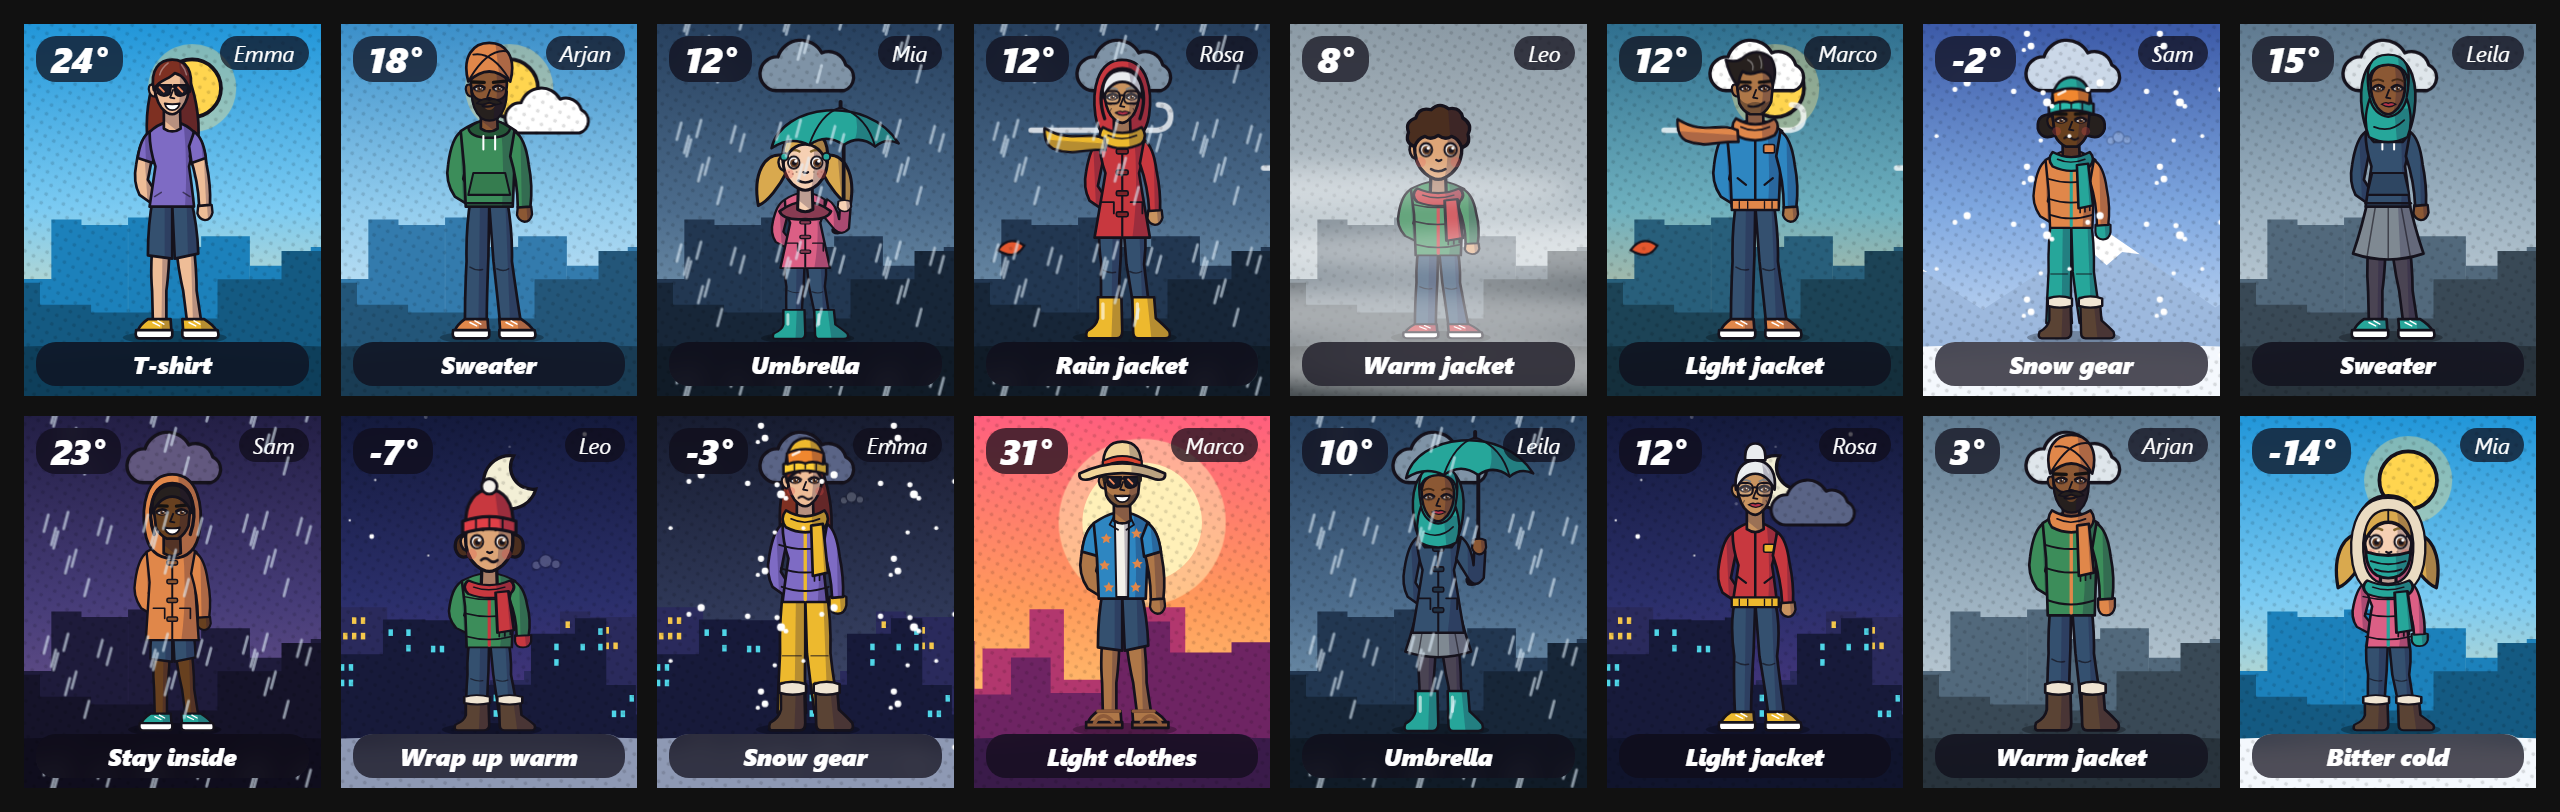
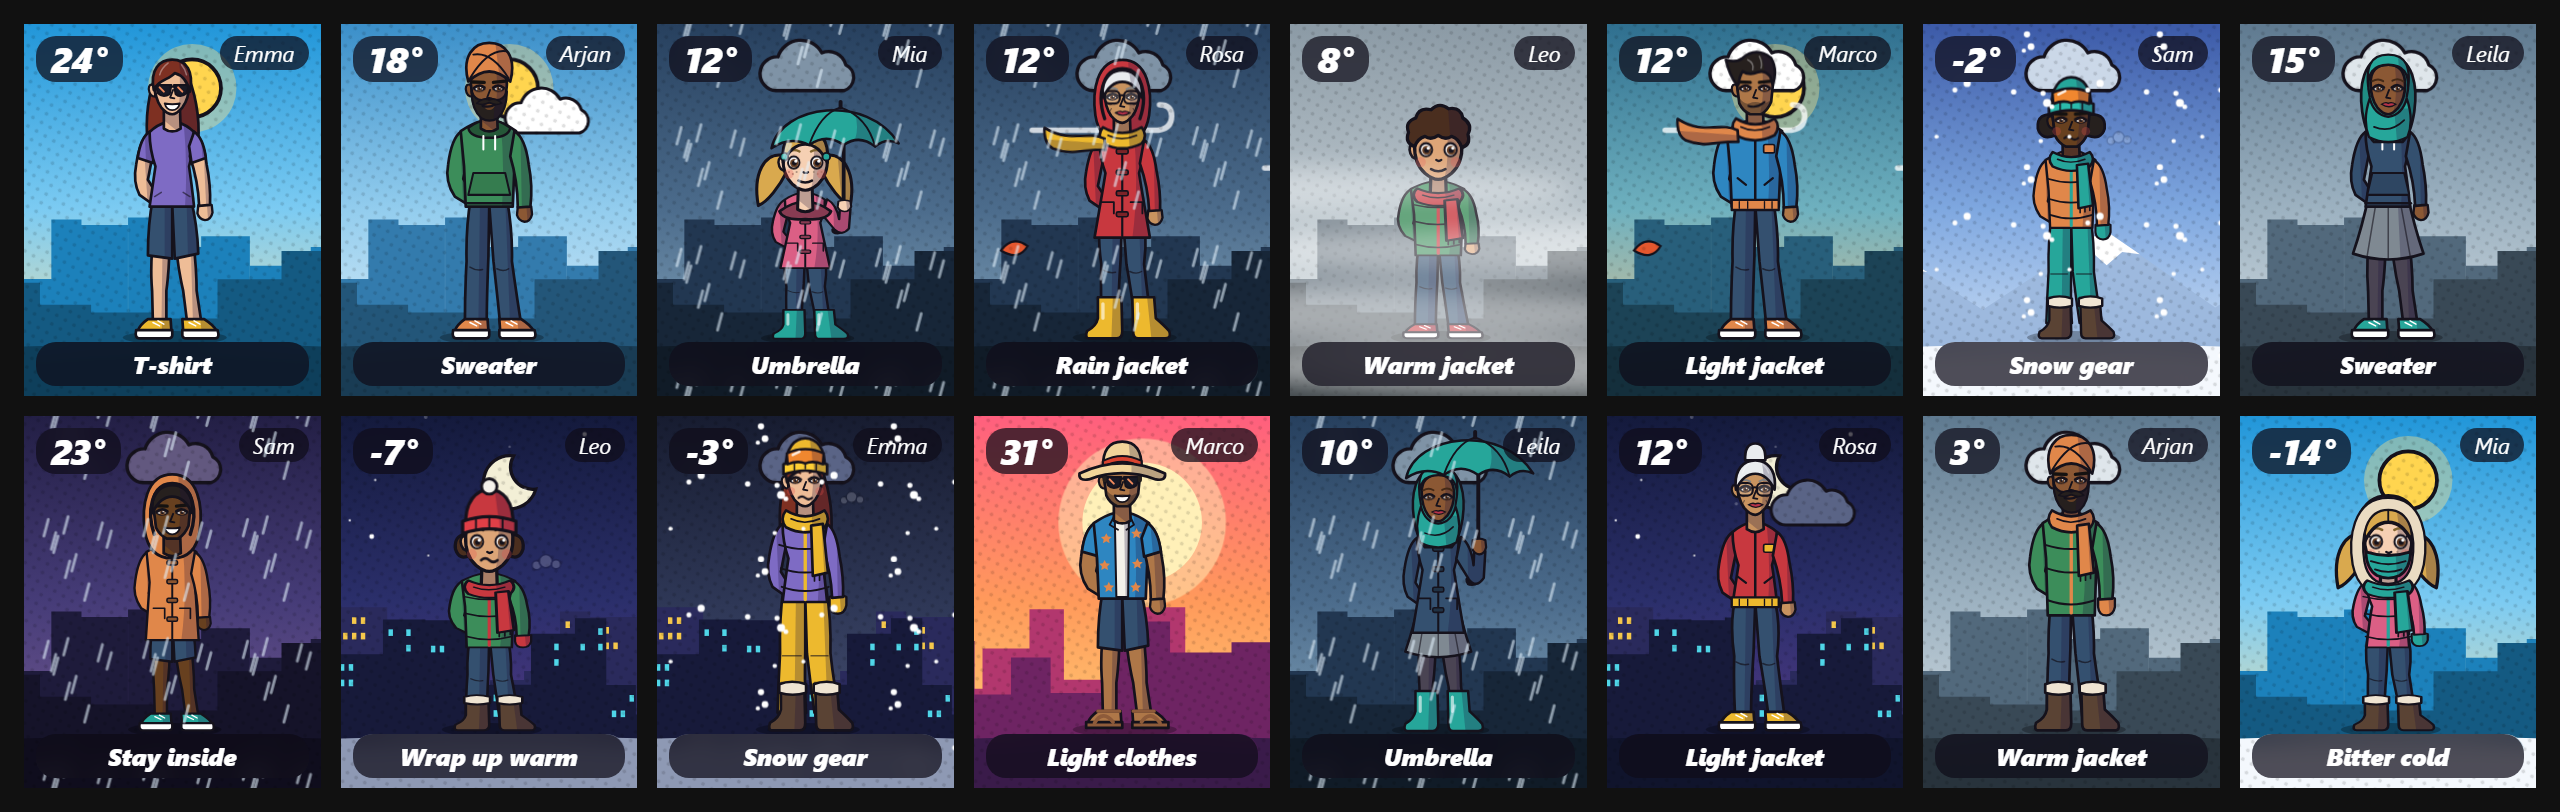
Pictograms: weather symbol below the temperature, no waving

diff --git a/dist/what-to-wear-card.js b/dist/what-to-wear-card.js
@@ -686,16 +686,17 @@ function signFigure(o, bg) {
   const coat = o.top === "rain", parka = o.top === "winter", low = coat ? 214 : parka ? 196 : 178;
   if (o.legs === "shorts") s.push(line("M86 180 V262 M114 180 V262", 22, W), line("M86 180 V206 M114 180 V206", 28, b));
   else s.push(line("M86 180 V262 M114 180 V262", o.legs === "snow" ? 28 : 24, o.legs === "snow" ? b : W));
+  if (o.legs === "snow") s.push(line("M100 204 V262", 5, bg));
   if (o.legs === "skirt") s.push(`<path d="M76 168 H124 L142 226 Q100 238 58 226Z" fill="${W}" stroke="${bg}" stroke-width="5" stroke-linejoin="round"/>`);
   if (o.feet === "rain" || o.feet === "winter") s.push(line("M86 238 V264 M114 238 V264", 28, b), line("M78 270 H92 M108 270 H122", 18, b), o.feet === "winter" ? line("M74 230 H98 M102 230 H126", 7, W) : "");
   else s.push(o.feet === "sandals" ? line("M74 272 H94 M106 272 H126", 9, b) : line("M78 268 H92 M108 268 H122", 16, b));
-  const right = o.umbrella ? "M128 104 L150 136 L160 112" : o.wave ? "M128 104 L154 112 L164 76" : "M130 106 L146 170", sleeves = o.top !== "tshirt";
-  for (const [d, x, y] of [["M70 106 L54 170", 54, 172], [right, ...(o.umbrella ? [160, 110] : o.wave ? [164, 74] : [146, 172])]]) {
+  const right = o.umbrella ? "M128 104 L150 136 L160 112" : "M130 106 L146 170", sleeves = o.top !== "tshirt";
+  for (const [d, x, y] of [["M70 106 L54 170", 54, 172], [right, ...(o.umbrella ? [160, 110] : [146, 172])]]) {
     s.push(line(d, 21, sleeves ? a : W));
     if (o.gloves) s.push(`<circle cx="${x}" cy="${y}" r="13" fill="${b}" stroke="${bg}" stroke-width="4"/>`);
     else if (sleeves) s.push(`<circle cx="${x}" cy="${y}" r="10.5" fill="${W}"/>`);
   }
-  if (!sleeves) s.push(line("M71 106 L65 126", 25, a), line(o.wave ? "M129 106 L145 110" : o.umbrella ? "M129 106 L139 120" : "M129 106 L135 126", 25, a));
+  if (!sleeves) s.push(line("M71 106 L65 126", 25, a), line(o.umbrella ? "M129 106 L139 120" : "M129 106 L135 126", 25, a));
   const fl = coat ? 12 : 2;
   s.push(`<path d="M72 92 Q100 84 128 92 Q136 96 134 112 L${130 + fl} ${low - 6} Q${130 + fl} ${low} ${124 + fl} ${low} H${76 - fl} Q${70 - fl} ${low} ${70 - fl} ${low - 6} L66 112 Q64 96 72 92Z" fill="${a}" stroke="${bg}" stroke-width="4" stroke-linejoin="round"/>`);
   if (parka) s.push(line("M70 122 H130 M69 148 H131 M69 173 H131 M100 92 V192", 4, bg));
@@ -725,7 +726,7 @@ function signFigure(o, bg) {
   else if (o.glasses) s.push(`<g fill="none" stroke="${bg}" stroke-width="3.4"><circle cx="90" cy="60" r="7.5"/><circle cx="110" cy="60" r="7.5"/><path d="M97.5 59h5"/></g>`);
   if (o.veil) s.push(`<path d="M${small ? 81 : 75} 64 Q100 70 ${small ? 119 : 125} 64 Q118 82 100 ${small ? 79 : 83} Q82 82 ${small ? 81 : 75} 64Z" fill="${b}"/>`);
   if (o.scarf) s.push(line("M78 92 Q100 102 122 92", 15, b), o.wind ? line("M80 94 Q52 82 30 98", 14, b) : line("M114 98 V136", 14, b));
-  if (o.age === "senior" && !o.umbrella && !o.wave) s.push(line("M150 172 V270 M150 172 Q150 160 160 160", 6, W));
+  if (o.age === "senior" && !o.umbrella) s.push(line("M150 172 V270 M150 172 Q150 160 160 160", 6, W));
   if (o.umbrella) s.push(line("M160 130 V6", 5, W), `<path d="M74 26 Q84 -42 160 -42 Q236 -42 246 26 Q232 14 217 26 Q203 12 189 26 Q174 12 160 26 Q146 12 132 26 Q117 12 103 26 Q88 14 74 26Z" fill="${b}" stroke="${bg}" stroke-width="3" stroke-linejoin="round" transform="translate(48 0) scale(.7 .9)"/>`);
   return `<g transform="translate(100 276) scale(${k}) translate(-100 -276)">${s.join("")}</g>`;
 }
@@ -823,8 +824,12 @@ ha-card { display: block; position: relative; overflow: hidden; height: 100%; mi
   .tips b { font-size: 12px; line-height: 1.5; font-weight: 500; white-space: nowrap; overflow: hidden; text-overflow: ellipsis; }
   .wx { width: 26px; height: 26px; top: 6px; right: 7px; }
   .wx.named { top: 23px; }
+  .wx.pictogram { top: 33px; right: auto; left: 9px; }
+  .wx.pictogram.alone { top: 6px; }
+  .pictogram.titled .p { top: 22px; }
   .symbols .p { top: 32px; }
   .symbols .n { top: -27px; }
+  .pictogram.titled .n { top: -18px; }
   .tips div, .tips .lg { display: none; }
   .tips .sm { display: block; }
 }
@@ -1028,7 +1033,7 @@ class WhatToWearCard extends HTMLElement {
       symbols: () => ["-4 -2 108 104", symbolFigure(o, dress, s.bg)],
     }[style]();
     this._paint(
-      `${s.back.replace("WXNAMED", config.name ? "named" : "")}<div class="in${style === "friendly" ? "" : ` ${style}`}${bare ? " bare" : ""}${advice ? " adv" : ""}"><div class="info">${weather}${advice}</div><div class="p"><svg viewBox="${box}" preserveAspectRatio="xMid${style === "symbols" ? "YMid" : "YMax"} meet" role="img" aria-label="${label}">${art}</svg>${config.name ? `<div class="n">${esc(config.name)}</div>` : ""}</div></div>${s.front}`
+      `${s.back.replace("WXNAMED", `${config.name ? "named " : ""}${style}${weather ? "" : " alone"}`)}<div class="in${style === "friendly" ? "" : ` ${style}`}${bare ? " bare" : ""}${config.name ? " titled" : ""}${advice ? " adv" : ""}"><div class="info">${weather}${advice}</div><div class="p"><svg viewBox="${box}" preserveAspectRatio="xMid${style === "symbols" ? "YMid" : "YMax"} meet" role="img" aria-label="${label}">${art}</svg>${config.name ? `<div class="n">${esc(config.name)}</div>` : ""}</div></div>${s.front}`
     );
   }
 }
